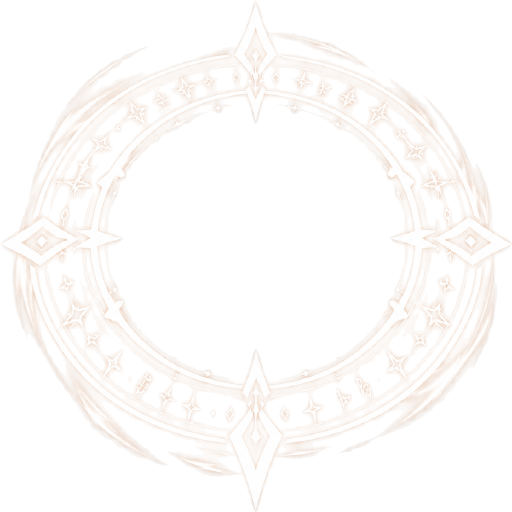
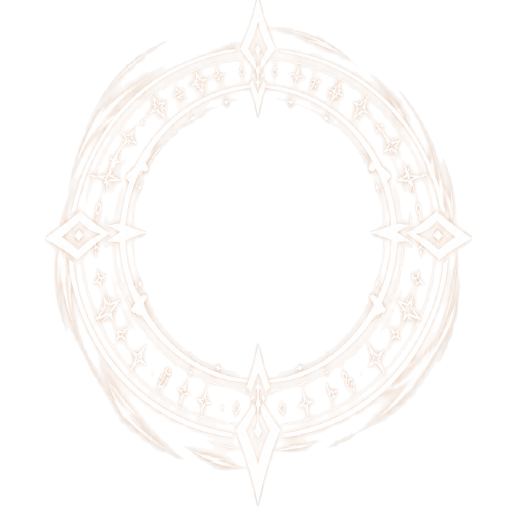
Círculo: redondo de verdade (medido pela massa) e mais translúcido
Duas correções do dono depois de ver em tela: "o anel não está redondo" e
"gostaria dele mais transparente um pouco".

🔴 O ACHATAMENTO SAI DA MASSA, E NÃO DA MOLDURA — e a diferença explica por que a
correção anterior não bastou. Eu esticava a CAIXA do recorte até virar quadrada.
Parece a mesma coisa e não é: a caixa inclui os losangos das quatro pontas, e
eles não são simétricos — os de leste e oeste avançam mais que os de norte e sul.

  caixa do recorte    1,64 : 1
  anel de verdade     1,95 : 1

Esticar pela caixa corrigia só 84% do caminho e sobravam 19% de oval, que foi
exatamente o que ele viu.

✅ O desvio-padrão do alfa em cada eixo mede o ANEL, não a moldura: massa
espalhada de verdade, sem se importar com o que sobressai numa ponta. Conferido
na saída: achatamento 1.000.

⚠ E a correção ALARGA o recorte em vez de encurtá-lo. Encurtar a altura até a
proporção certa cortaria os losangos de cima e de baixo; alargar só acrescenta
transparência nas laterais, que não custa nada. O recorte foi de 1447x885 para
1728x885, com o que passa da imagem lido como transparente.

⚠ Centrado na MASSA e não na caixa: a arte não é perfeitamente simétrica, e
centrar pela caixa deslocaria o anel dentro do quadro.

🔴 E MAIS TRANSLÚCIDO. Conjuração de 0,85 para 0,55; mira de 0,8/0,5 para
0,5/0,32. O anel cobre a área inteira da magia — quanto mais opaco, mais ele
esconde o chão e os bichos que estão lá, que é justamente o que se quer olhar
enquanto a magia carrega.
[…]

diff --git a/client/src/main.ts b/client/src/main.ts
@@ -7320,7 +7320,12 @@ async function startGame(playerName: string, charClass: PlayerClass, gender: Gen
       circuloMira.width = lado;
       circuloMira.height = lado;
       circuloMira.tint = cor;
-      circuloMira.alpha = fora ? 0.5 : 0.8;
+      /*
+       * ⚠ Mais discreto que a primeira versão (0,8 / 0,5), a pedido do dono:
+       * o anel fica em cena o tempo todo em que se está mirando, e opaco demais
+       * ele competia com o cenário em vez de só marcar o chão.
+       */
+      circuloMira.alpha = fora ? 0.32 : 0.5;
       circuloMira.visible = true;
     } else {
       circuloMira.visible = false;
@@ -9058,8 +9063,12 @@ async function startGame(playerName: string, charClass: PlayerClass, gender: Gen
      *
      * ⚠ **Ele nasce e morre em FADE.** Aparecer de uma vez, no tamanho cheio,
      * lê como erro de desenho; 180 ms de entrada bastam para o olho entender
-     * que aquilo foi conjurado ali. O `alpha` sobe até 0,85 e para — chegar a 1
-     * competiria com o efeito da magia quando ele começar.
+     * que aquilo foi conjurado ali.
+     *
+     * ⚠ **Para em 0,55, e era 0,85** (dono, 11/09: *"gostaria dele mais
+     * transparente um pouco"*). O anel cobre a área inteira da magia, então
+     * quanto mais opaco, mais ele esconde o chão e os bichos que estão lá — que
+     * é justamente o que se quer olhar enquanto a magia carrega.
      */
     if (circuloConj.visible) {
       // ⚠ Lê o relógio direto: este bloco roda ANTES de o `dt` do laço ser
@@ -9067,7 +9076,7 @@ async function startGame(playerName: string, charClass: PlayerClass, gender: Gen
       // varredura de quem conjura, que é onde ele nasce e morre.
       const dtC = app.ticker.deltaMS;
       circuloConj.rotation += dtC * 0.0008;
-      circuloConj.alpha = Math.min(0.85, circuloConj.alpha + dtC / 180 * 0.85);
+      circuloConj.alpha = Math.min(0.55, circuloConj.alpha + dtC / 180 * 0.55);
     }
 
     // Anel de alvo sob o inimigo selecionado.
